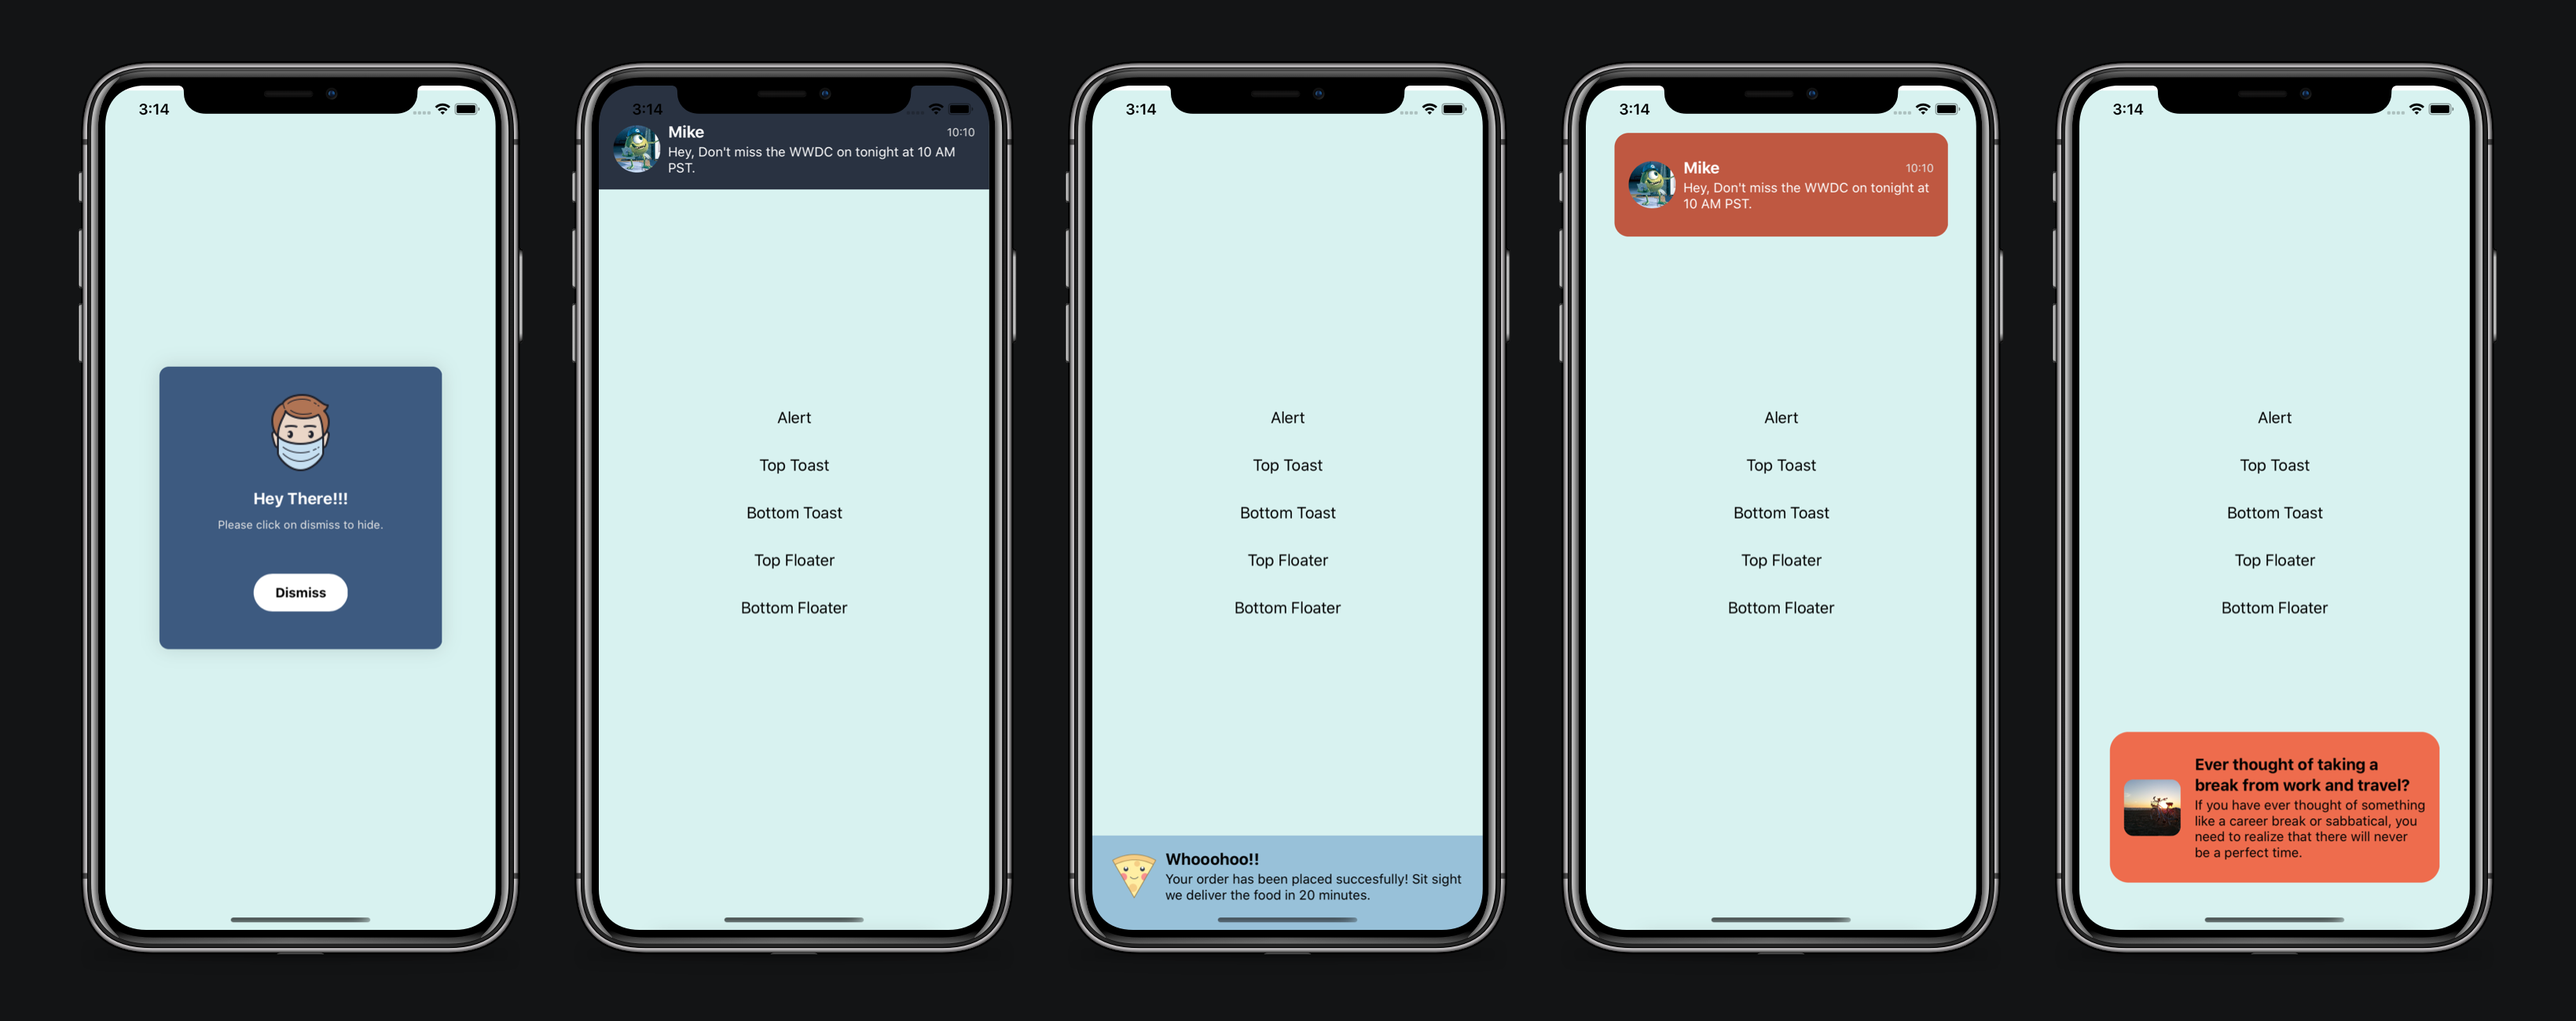
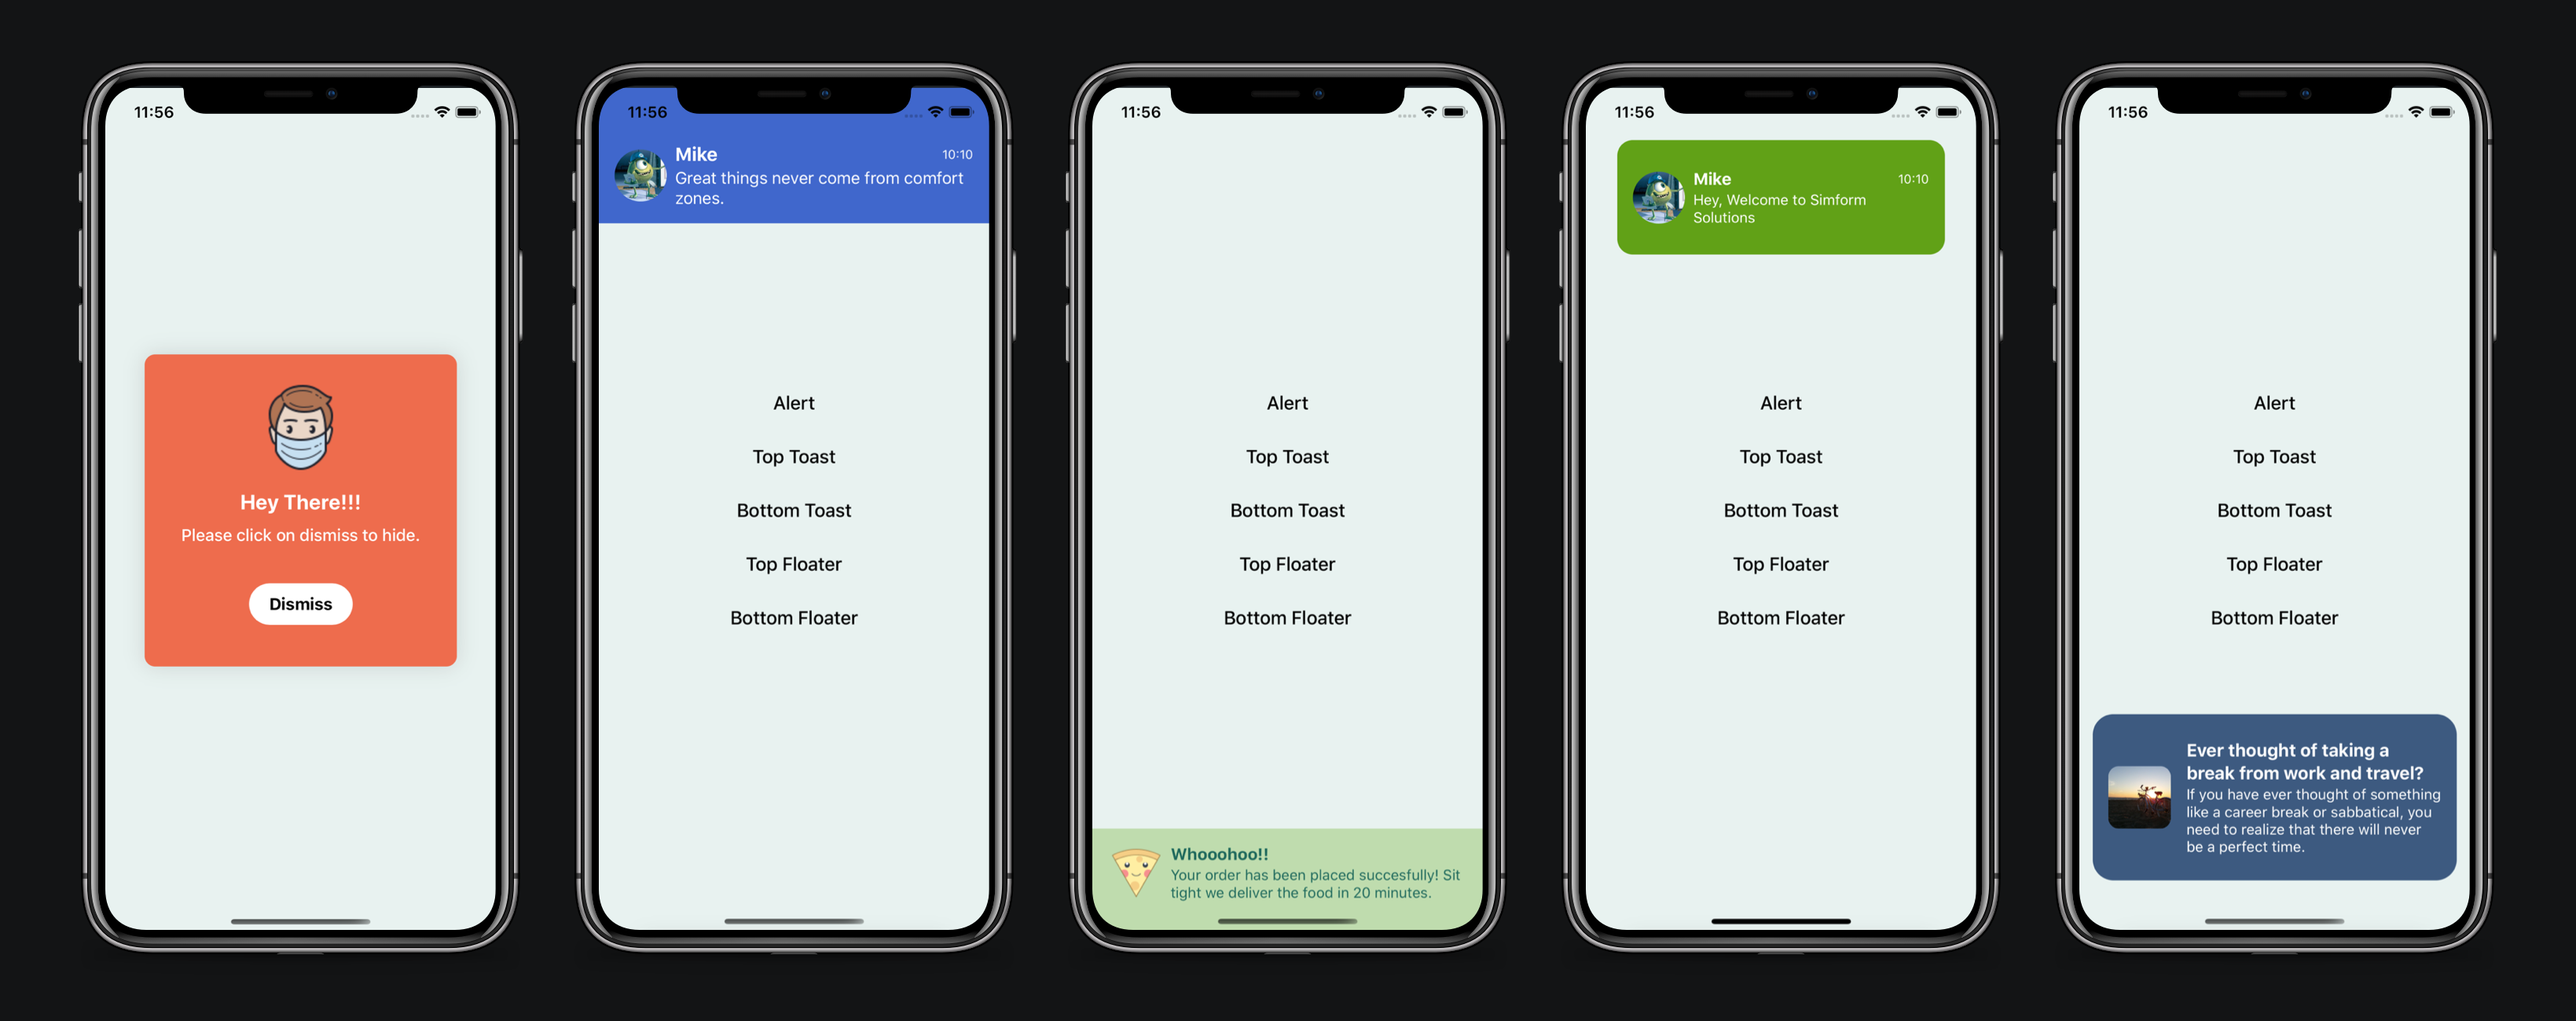
Update colors of message view in example Add launch screen Update the Screenshots image Update gif

diff --git a/SSToastMessage/Example/SSToastMessage/ContentView.swift b/SSToastMessage/Example/SSToastMessage/ContentView.swift
@@ -21,18 +21,20 @@ struct MyButtonView : View {
             self.showing.toggle()
         }) {
             Text(title)
+                .font(.system(size: 18))
+                .fontWeight(.medium)
                 .foregroundColor(.black)
         }
     }
 }
 
 struct ContentView: View {
-    let bgColor = Color(hex: "D8F2F0")
-    let popupColor = Color(hex: "3d5a80")
-    let topToastColor = Color(hex: "293241")
-    let bottomToastColor = Color(hex: "98c1d9")
-    let topFloatColor = Color(hex: "BF5841")
-    let bottomFloatColor = Color(hex: "ee6c4d")
+    let bgColor = Color(hex: "E8F2F0")
+    let alertColor = Color(hex: "ee6c4d")
+    let topToastColor = Color(hex: "4067CC")
+    let bottomToastColor = Color(hex: "bfdcae")
+    let topFloatColor = Color(hex: "61A117")
+    let bottomFloatColor = Color(hex: "3d5a80")
 
     @State var showAlert = false
     @State var showTopToast = false
@@ -49,34 +51,41 @@ struct ContentView: View {
     }
 
     var body: some View {
-                VStack {
-                    VStack(spacing: 30) {
-                        MyButtonView(showing: self.$showAlert, title: "Alert", hideAll: self.dismissAll)
-                        MyButtonView(showing: self.$showTopToast, title: "Top Toast", hideAll: self.dismissAll)
-                        MyButtonView(showing: self.$showBottomToast, title: "Bottom Toast", hideAll: self.dismissAll)
-                        MyButtonView(showing: self.$showTopFloater, title: "Top Floater", hideAll: self.dismissAll)
-                        MyButtonView(showing: self.$showBottomFloater, title: "Bottom Floater", hideAll: self.dismissAll)
-                    }
-                    .present(isPresented: self.$showAlert, type: .alert, autohideDuration: nil, closeOnTap: false) {
-                        self.createAlertView()
-                    }
+        GeometryReader { geometryProxy in
+            VStack {
+                VStack(spacing: 30) {
+                    MyButtonView(showing: self.$showAlert, title: "Alert", hideAll: self.dismissAll)
+                    MyButtonView(showing: self.$showTopToast, title: "Top Toast", hideAll: self.dismissAll)
+                    MyButtonView(showing: self.$showBottomToast, title: "Bottom Toast", hideAll: self.dismissAll)
+                    MyButtonView(showing: self.$showTopFloater, title: "Top Floater", hideAll: self.dismissAll)
+                    MyButtonView(showing: self.$showBottomFloater, title: "Bottom Floater", hideAll: self.dismissAll)
+                }
+                
 
-                    .present(isPresented: self.$showTopToast, type: .toast, position: .top, onTap: {print("on toast tap")}) {
-                        self.createTopToastView()
-                    }
-                    .present(isPresented: self.$showBottomToast, type: .toast, position: .bottom, onTap: {print("on toast tap")}) {
-                        self.createBottomToastView()
-                    }
-                    .present(isPresented: self.$showTopFloater, type: .floater(), position: .top, animation: Animation.spring(), onTap: {print("on toast tap")}) {
-                        self.createTopFloaterView()
-                    }
-                    .present(isPresented: self.$showBottomFloater, type: .floater(), position: .bottom,animation: Animation.spring(), autohideDuration: nil, onTap: {print("on toast tap")}) {
-                        self.createBottomFloaterView()
-                    }
-
-            }
-                .frame(width: UIScreen.main.bounds.width, height: UIScreen.main.bounds.height)
-                .background(bgColor)
+                .present(isPresented: self.$showAlert, type: .alert, animation: Animation.interactiveSpring(), autohideDuration: nil, closeOnTap: false) {
+                    self.createAlertView()
+                }
+                    
+                .present(isPresented: self.$showTopToast, type: .toast, position: .top, onTap: {print("on toast tap")}) {
+                    self.createTopToastView()
+                }
+                .present(isPresented: self.$showBottomToast, type: .toast, position: .bottom, onTap: {print("on toast tap")}) {
+                    self.createBottomToastView()
+                }
+                .present(isPresented: self.$showTopFloater, type: .floater(), position: .top, animation: Animation.spring(), onTap: {print("on toast tap")}) {
+                    self.createTopFloaterView()
+                }
+                .present(isPresented: self.$showBottomFloater, type: .floater(), position: .bottom,animation: Animation.spring(), autohideDuration: nil, onTap: {print("on toast tap")}) {
+                    self.createBottomFloaterView()
+                }
+                
+                }
+            .frame(width: geometryProxy.size.width, height: geometryProxy.size.height)
+            
+        }
+        .background(self.bgColor)
+        .edgesIgnoringSafeArea(.all)
+             
 
 
     }
@@ -90,11 +99,13 @@ struct ContentView: View {
 
             Text("Hey There!!!")
                 .foregroundColor(.white)
+                .font(.system(size: 20))
                 .fontWeight(.bold)
 
             Text("Please click on dismiss to hide.")
-                .font(.system(size: 12))
-                .foregroundColor(Color(red: 0.9, green: 0.9, blue: 0.9))
+                .font(.system(size: 16))
+                .fontWeight(.medium)
+                .foregroundColor(.white)
 
             Spacer()
 
@@ -102,7 +113,7 @@ struct ContentView: View {
                 self.showAlert = false
             }) {
                 Text("Dismiss")
-                    .font(.system(size: 14))
+                    .font(.system(size: 16))
                     .foregroundColor(.black)
                     .fontWeight(.bold)
             }
@@ -112,14 +123,14 @@ struct ContentView: View {
         }
         .padding(EdgeInsets(top: 20, leading: 20, bottom: 40, trailing: 20))
         .frame(width: 300, height: 300)
-        .background(self.popupColor)
+        .background(self.alertColor)
         .cornerRadius(10.0)
         .shadow(color: Color(.sRGBLinear, white: 0, opacity: 0.13), radius: 10.0)
     }
 
     func createTopToastView() -> some View {
         VStack {
-            Spacer(minLength: 20)
+            Spacer(minLength: 30)
             HStack() {
                 Image("mike")
                     .resizable()
@@ -130,22 +141,23 @@ struct ContentView: View {
                 VStack(alignment: .leading, spacing: 2) {
                     HStack {
                         Text("Mike")
+                            .font(.system(size: 18))
                             .foregroundColor(.white)
                             .fontWeight(.bold)
                         Spacer()
                         Text("10:10")
                             .font(.system(size: 12))
-                            .foregroundColor(Color(red: 0.9, green: 0.9, blue: 0.9))
+                            .foregroundColor(.white)
                     }
 
-                    Text("Hey, Don't miss the WWDC on tonight at 10 AM PST.")
+                    Text("Great things never come from comfort zones.")
                         .lineLimit(2)
-                        .font(.system(size: 14))
+                        .font(.system(size: 16))
                         .foregroundColor(.white)
                 }
             }.padding(15)
         }
-        .frame(width: UIScreen.main.bounds.width, height: 110)
+        .frame(width: UIScreen.main.bounds.width, height: 130)
         .background(self.topToastColor)
     }
 
@@ -159,13 +171,14 @@ struct ContentView: View {
 
                 VStack(alignment: .leading, spacing: 2) {
                     Text("Whooohoo!!")
-                        .foregroundColor(.black)
+                        .font(.system(size: 16))
+                        .foregroundColor(Color(hex: "206a5d"))
                         .fontWeight(.bold)
 
-                    Text("Your order has been placed succesfully! Sit sight we deliver the food in 20 minutes.")
+                    Text("Your order has been placed succesfully! Sit tight we deliver the food in 20 minutes.")
                         .lineLimit(2)
                         .font(.system(size: 14))
-                        .foregroundColor(.black)
+                        .foregroundColor(Color(hex: "206a5d"))
                 }
             }
             Spacer(minLength: 10)
@@ -187,18 +200,20 @@ struct ContentView: View {
                 VStack(alignment: .leading, spacing: 2) {
                     HStack {
                         Text("Mike")
+                            .font(.system(size: 16))
                             .foregroundColor(.white)
                             .fontWeight(.bold)
                         Spacer()
                         Text("10:10")
                             .font(.system(size: 12))
-                            .foregroundColor(Color(red: 0.9, green: 0.9, blue: 0.9))
+                            .foregroundColor(.white)
                     }
-
-                    Text("Hey, Don't miss the WWDC on tonight at 10 AM PST.")
+                    
+                    Text("Hey, Welcome to Simform Solutions")
                         .lineLimit(2)
                         .font(.system(size: 14))
                         .foregroundColor(.white)
+                        
                 }
             }.padding(15)
         }
@@ -217,13 +232,13 @@ struct ContentView: View {
 
             VStack(alignment: .leading, spacing: 2) {
                 Text("Ever thought of taking a break from work and travel?")
-                    .foregroundColor(.black)
+                    .foregroundColor(.white)
                     .fontWeight(.bold)
                     .lineLimit(3)
 
                 Text("If you have ever thought of something like a career break or sabbatical, you need to realize that there will never be a perfect time.")
                     .font(.system(size: 14))
-                    .foregroundColor(.black)
+                    .foregroundColor(.white)
             }
         }
         .padding(15)
